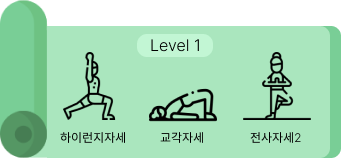
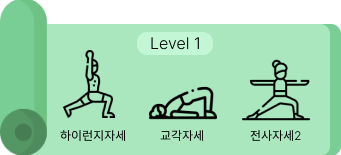
사진변경

diff --git a/lib/playTab/exp_yoga_pp.dart b/lib/playTab/exp_yoga_pp.dart
@@ -1,0 +1,165 @@
+import 'package:cabston/user_info.dart';
+import 'package:flutter/material.dart';
+import 'package:cabston/user_info.dart';
+import 'package:cabston/playTab/PlayTab.dart';
+import 'package:cabston/pose_detection/pose_detector_view.dart';
+import 'package:http/http.dart' as http;
+import 'dart:convert';
+import 'package:provider/provider.dart';
+import 'package:cabston/selected_num.dart';
+import 'package:cabston/playTab/poseChoice_challengers.dart';
+class exp_yoga_ch extends StatefulWidget {
+  final changeView;
+  const exp_yoga_ch(this.changeView, {Key? key}) : super(key: key);
+
+  @override
+  _exp_yoga_chState createState() => _exp_yoga_chState();
+}
+class _exp_yoga_chState extends State<exp_yoga_ch> {
+  String _currentDescription = '';
+  List<String> pose_name_kr = ['오른쪽 팔꿈치', '왼쪽 팔꿈치', '오른쪽 겨드랑이', '왼쪽 겨드랑이', '오른쪽 고관절', '왼쪽 고관절', '오른쪽 무릎', '왼쪽 무릎'];
+  List<int> num = [4,15,13];
+  List<String> pose_name = ["하이런지자세", "교각자세", "전사자세2"];
+  String poseData ='';
+  @override
+  void didChangeDependencies(){
+    super.didChangeDependencies();
+    // 페이지가 처음 빌드될 때, 첫 번째 이미지에 해당하는 설명을 설정합니다.
+    final selectedPoseNumProvider = Provider.of<selected_pose_num>(context);
+    _currentDescription = selectedPoseNumProvider.selectedPoseExp[3];
+    poseData = "하이런지자세";
+  }
+
+  //서버에서 데이터를 받아온다.
+  Future<dynamic> fetchData(int user_num) async {
+    final response = await http.post(
+      Uri.parse('http://34.64.61.219: 3000/pose_point/get_yoga_point'),
+      headers: {//보낼 데이터 형식(json)
+        'Content-Type': 'application/json',
+      },
+      body: jsonEncode({//json 형식으로 보낼 데이터 입력
+        'user_num' : user_num,
+        'pose_name': poseData,
+      }),);
+    if (response.statusCode == 200) {//200 = 정상적으로 연결 되었다.
+      return json.decode(response.body);
+    } else {
+      throw Exception('Failed to load data');
+    }
+  }
+
+
+  @override
+
+  Widget build(BuildContext context) {
+
+    return Consumer<selected_pose_num>(
+      builder: (context, selectedPoseNumProvider, child){
+
+        return SingleChildScrollView(
+          scrollDirection: Axis.vertical,
+          child: Column(
+            mainAxisAlignment: MainAxisAlignment.center,
+            children: [
+              Row(
+                mainAxisAlignment: MainAxisAlignment.end,
+                children: [
+                  IconButton(
+                      iconSize: 25,
+                      onPressed: () {
+                        selectedPoseNumProvider.selectedImagesPose.clear();
+                        selectedPoseNumProvider.selectedImages.clear();
+                        selectedPoseNumProvider.selectedPoseNum.clear();
+                        selectedPoseNumProvider.selectedPoseNameSever.clear();
+                        _currentDescription='';
+                        widget.changeView(2);
+                      },
+                      icon: Icon(Icons.backspace_outlined)),
+                ],
+              ),
+              Container(
+                height: 400,
+                child: PageView.builder(
+                  itemCount: 3,
+                  itemBuilder: (context, index) {
+                    if (_currentDescription.isEmpty) {
+                      _currentDescription = selectedPoseNumProvider.selectedPoseExp[selectedPoseNumProvider.selectedPoseNum[index]];
+                      poseData = pose_name[index];
+                    }
+                    return Padding(
+                      padding: EdgeInsets.all(10),
+                      child: Image.asset(
+                        'assets/pose/p_button_${num[index]}.png',
+                        fit: BoxFit.cover,
+                      ),
+                    );
+                  },
+                  onPageChanged: (index) {
+                    setState(() {
+                      _currentDescription = selectedPoseNumProvider.selectedPoseExp[num[index]-1];
+                      poseData = pose_name[index];
+                    });
+                  },
+                ),
+              ),
+              FutureBuilder <dynamic>(
+                //비동기 처리(서버에서 데이터를 불러올 때까지 대기하며 보여줄 화면을 설정할 수 있다.)
+                future: fetchData(context.watch<user_info>().user_num),//비동기 함수(서버 연결)
+                builder: (context, snapshot) {
+                  if (snapshot.hasData) {// 서버 연결 완료
+                    print(snapshot.data);
+                    int timeScore = snapshot.data!['time_score'];
+                    List<int> scores = (snapshot.data!['pose_score'] as List<dynamic>).cast<int>();
+                    String score_print = "";
+                    for(int i = 0; i<scores.length; i++){
+                      if(i%2==0){
+                        score_print += '\n';
+                      }
+                      score_print += '${pose_name_kr[i]} : ${scores[i]} ';
+                    }
+                    return Text(score_print,
+                      style: TextStyle(
+                        fontStyle: FontStyle.normal,
+                        fontSize: 15, // 여기에 원하는 글자 크기를 설정
+                      ),); // 서버에서 받은 데이터 보여준다
+                  } else if (snapshot.hasError) { // 연결 중 오류 발생
+                    return Text('${snapshot.error}');//오류 메세지
+                  }
+                  return CircularProgressIndicator();//서버 연결 전까지 보여줄 대기 화면
+                },
+              ),
+              IconButton(
+                  iconSize: 50,
+                  onPressed: () {
+                    for(int i = 0; i<3; i++)
+                      selectedPoseNumProvider.addSelectedPose(num[i]-1,"","");
+                    Navigator.push(
+                      context,
+                      MaterialPageRoute(
+                        builder: (context) => PoseDetectorView(),
+                      ),
+                    );
+                  },
+                  icon: Icon(Icons.camera)),
+              Container(
+                margin: EdgeInsets.all(10),
+                padding: EdgeInsets.all(16.0), // 텍스트 주위의 여백 조절
+                decoration: BoxDecoration(
+                  color: Colors.white,
+                  borderRadius: BorderRadius.circular(10.0), // 각 모서리가 둥근 형태의 사각형
+                ),
+                child: Text(
+                  _currentDescription,
+                  style: TextStyle(
+                    fontSize: 16.0,
+                    color: Colors.black,
+                  ),
+                ),
+              )
+            ],
+          ),
+        );
+      },
+    );
+  }
+}

diff --git a/lib/pose_detection/camera_view.dart b/lib/pose_detection/camera_view.dart
@@ -390,29 +390,29 @@ class _CameraViewState extends State<CameraView> {
                   Row(
                       mainAxisAlignment: MainAxisAlignment.spaceEvenly,
                       children: [
-                        Text('${ttmp.stored_scores[0]}'),
-                        Text('${ttmp.stored_scores[1]}'),
+                        Text('${ttmp.stored_scores[0]}', style: TextStyle(fontSize: 10),),
+                        Text('${ttmp.stored_scores[1]}',style: TextStyle(fontSize: 10),),
                       ]
                   ),
                   Row(
                       mainAxisAlignment: MainAxisAlignment.spaceEvenly,
                       children: [
-                        Text('${ttmp.stored_scores[2]}'),
-                        Text('${ttmp.stored_scores[3]}'),
+                        Text('${ttmp.stored_scores[2]}',style: TextStyle(fontSize: 10),),
+                        Text('${ttmp.stored_scores[3]}',style: TextStyle(fontSize: 10),),
                       ]
                   ),
                   Row(
                       mainAxisAlignment: MainAxisAlignment.spaceEvenly,
                       children: [
-                        Text('${ttmp.stored_scores[4]}'),
-                        Text('${ttmp.stored_scores[5]}'),
+                        Text('${ttmp.stored_scores[4]}',style: TextStyle(fontSize: 10),),
+                        Text('${ttmp.stored_scores[5]}',style: TextStyle(fontSize: 10),),
                       ]
                   ),
                   Row(
                       mainAxisAlignment: MainAxisAlignment.spaceEvenly,
                       children: [
-                        Text('${ttmp.stored_scores[6]}'),
-                        Text('${ttmp.stored_scores[7]}'),
+                        Text('${ttmp.stored_scores[6]}',style: TextStyle(fontSize: 10),),
+                        Text('${ttmp.stored_scores[7]}',style: TextStyle(fontSize: 10),),
                       ]
                   ),
                 ]

diff --git a/lib/playTab/poseChoice_posePractive.dart b/lib/playTab/poseChoice_posePractive.dart
@@ -33,14 +33,14 @@ class _poseChoice_posePractiveState extends State<poseChoice_posePractive> {
                       selectedPoseNumProvider.selectedImages.clear();
                       selectedPoseNumProvider.selectedPoseNum.clear();
                       selectedPoseNumProvider.selectedPoseNameSever.clear();
-                      widget.changeView(4); // 챌린져스 ->추천루틴,커스텀
+                      widget.changeView(4); // 자세연습 -> 추천루틴, 커스텀
                     },
                     icon: Icon(Icons.backspace_outlined),
                   ),
                 ],
               ),
               Image.asset(
-                'assets/chellen/ch_title.png',
+                'assets/chellen/pose_title.png',
               ),
               SizedBox(height: 50,),
               Column(

diff --git a/lib/playTab/rutinChoice_posepractice.dart b/lib/playTab/rutinChoice_posepractice.dart
@@ -32,7 +32,7 @@ class rutinChoice_posePractice extends StatelessWidget {
                     onTap: () {
                       changeViews(3);
                     },
-                    child: Image.asset('assets/chellen/level1_re.png'),
+                    child: Image.asset('assets/chellen/level1.png'),
                   ),
                   SizedBox(height: 30,),
                   InkWell(
